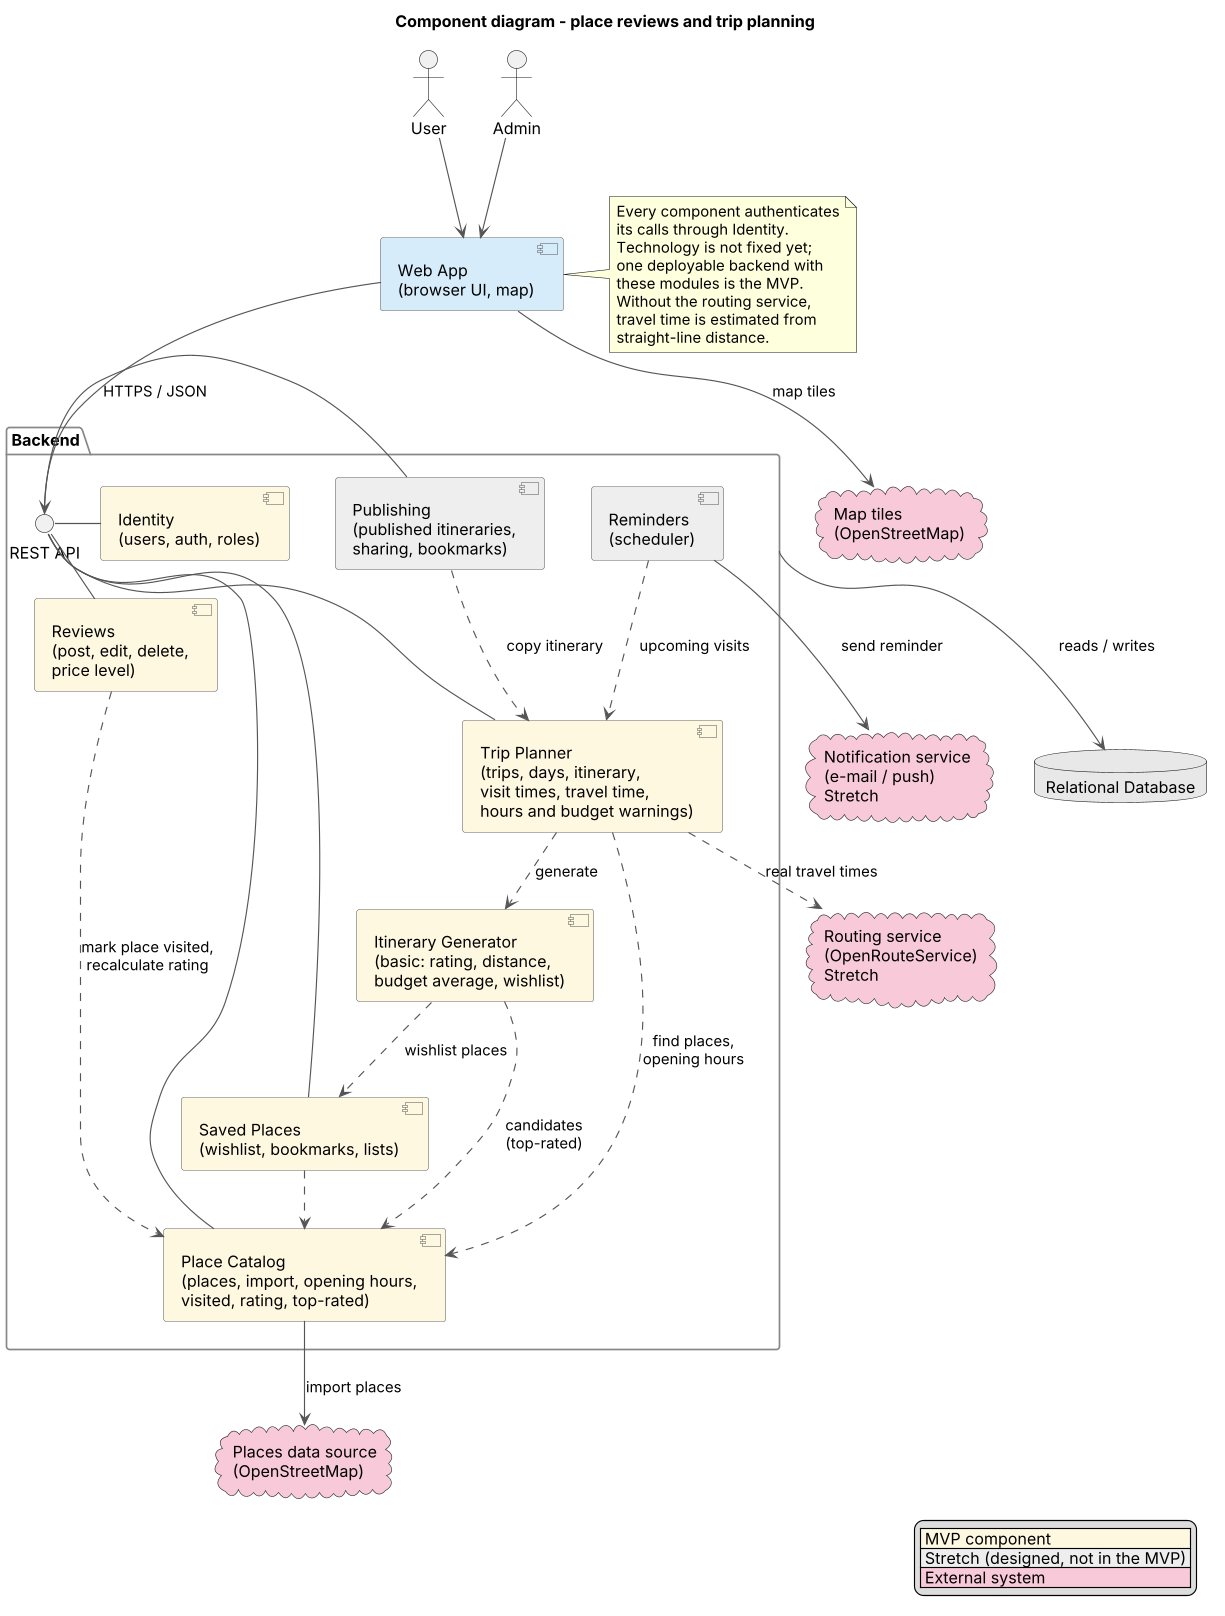
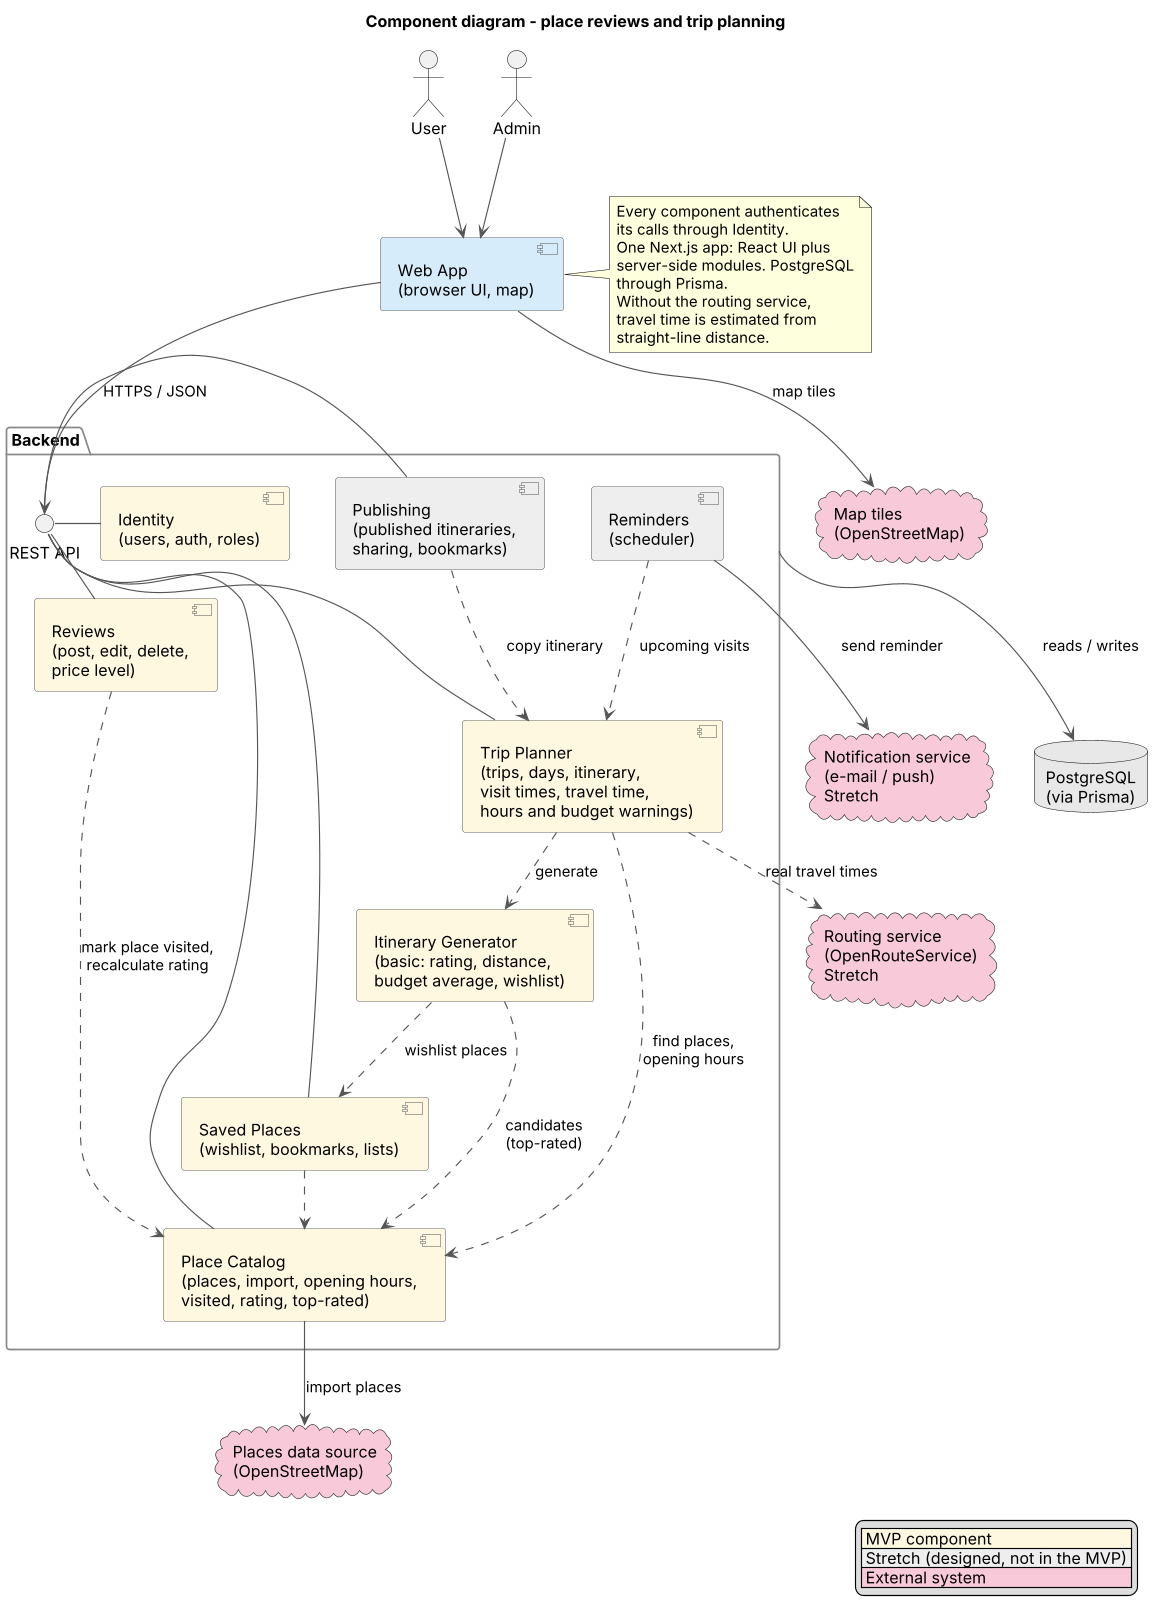
update docs with stack

diff --git a/docs/design.md b/docs/design.md
@@ -163,6 +163,9 @@ Catalog = Place, Reviews = Review, Saved Places = Saved place and Saved list, Tr
 Planner = Trip, Publishing = Published itinerary). The Itinerary Generator is the
 domain service and Reminders is the timer-driven policy.
 
-The technology stack is not decided yet. The MVP is one deployable backend with
-these modules and a relational database, so the diagram stays valid whichever
-stack the team picks.
+**Technology.** The app is one Next.js project: the React UI and the server side
+(route handlers) live in the same codebase, and each backend component above is a
+module of it. Data is stored in PostgreSQL through Prisma, with versioned Prisma
+migrations. Development happens in VS Code inside a dev container, with one
+container for the app and one for the database. The MVP is one deployable app plus
+one database.

diff --git a/docs/mvp.md b/docs/mvp.md
@@ -121,6 +121,8 @@ If there is time left, the Stretch ideas we would take first, in this order:
 | Compatibility | Latest Chrome, Firefox, Edge and Safari; usable on a phone-width screen |
 | Map | Follows the OpenStreetMap tile usage policy (attribution, no bulk or offline use), or uses a provider that allows our usage |
 | Licensing | OpenStreetMap attribution shown |
+| Tech stack | One Next.js app (React UI and server side in the same project), PostgreSQL accessed through Prisma |
+| Development setup | Everything runs in Docker and is developed in VS Code inside a dev container: one container for the app and one for the database, started together |
 
 ## 6. Demo scenario
 
